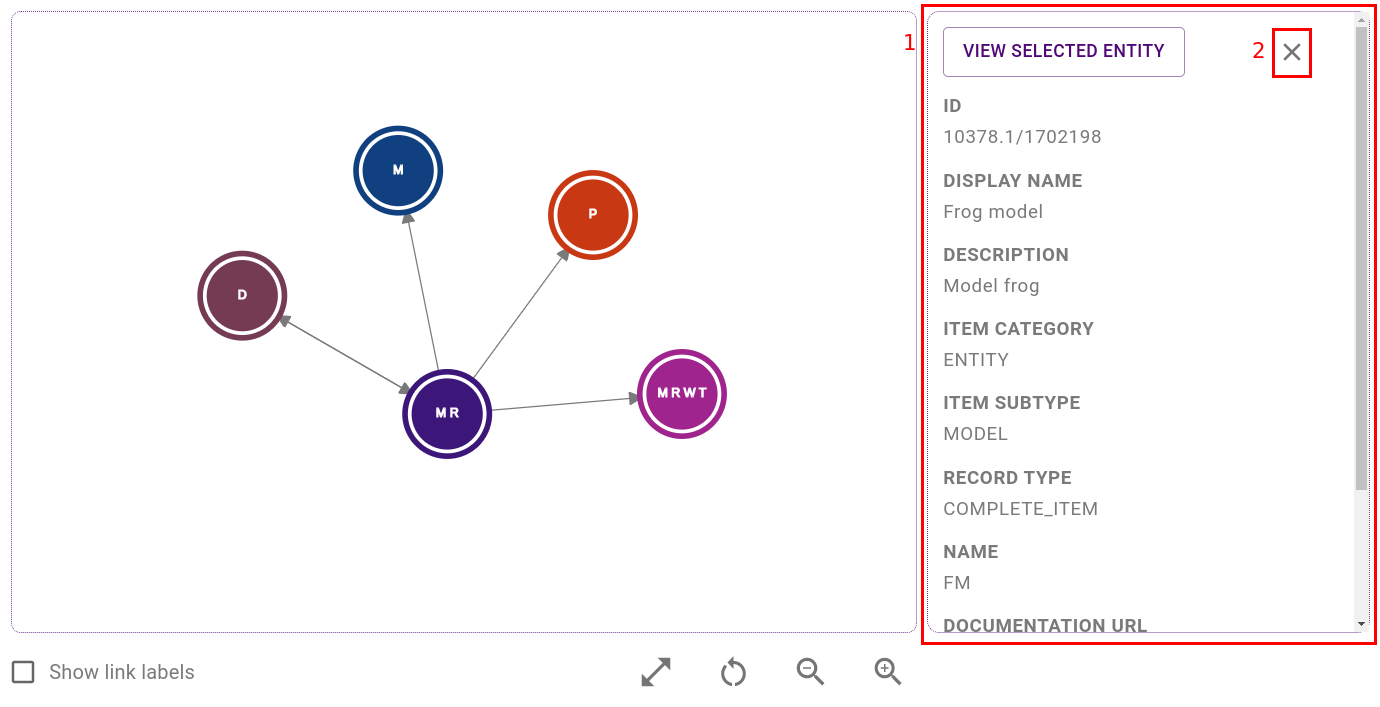
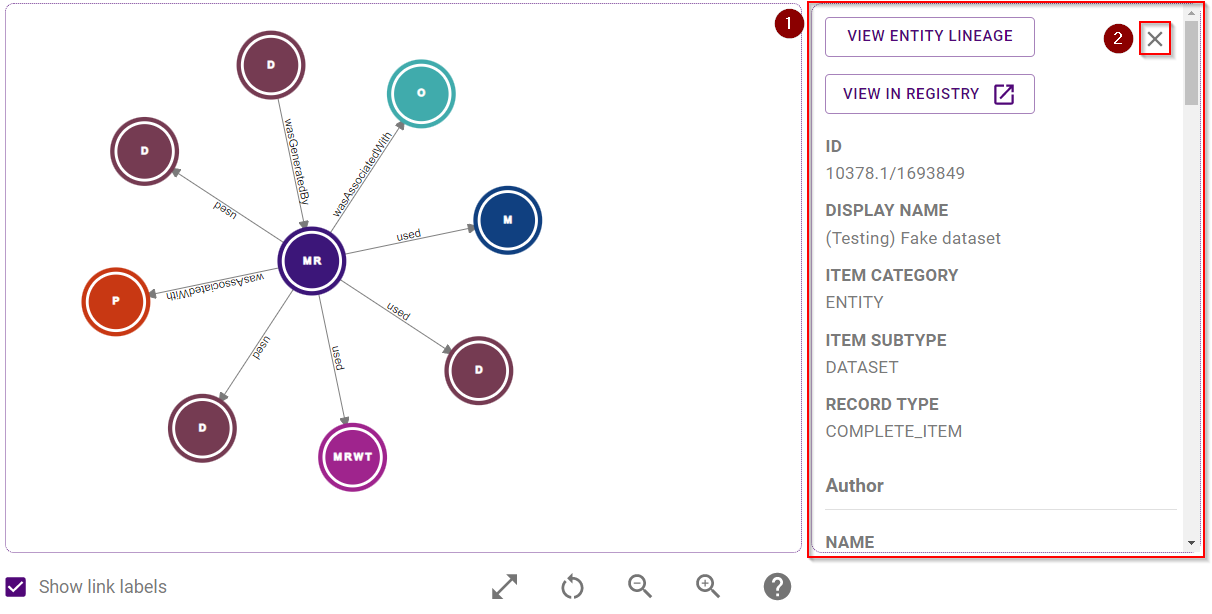
Update screenshots to include help button and add quick mention

diff --git a/information-system/provenance/exploring-provenance/exploring-record-lineage.md b/information-system/provenance/exploring-provenance/exploring-record-lineage.md
@@ -81,6 +81,12 @@ The graph contains nodes (1) and links (2). The meaning of these nodes and links
 | :----------------------------------------------------------------------------------------------------------: |
 | <img src="../../../assets/images/provenance/exploring/graph/overview_bottom.png" alt="drawing" width="800"/> |
 
+You can always come back to this page by using the help button, highlighted below (1).
+
+|                                               Getting Help                                               |
+| :------------------------------------------------------------------------------------------------------: |
+| <img src="../../../assets/images/provenance/exploring/graph/help_button.png" alt="drawing" width="800"/> |
+
 # Interacting with and traversing the provenance graph
 
 The provenance graph explorer is an interactive visualisation with various controls. We will explore these controls in three sections.

diff --git a/information-system/provenance/exploring-provenance/discovering-records.md b/information-system/provenance/exploring-provenance/discovering-records.md
@@ -32,7 +32,7 @@ There are two methods to discover explorable records:
 
 ### Finding model run records
 
-[Registered model run records](../registering-model-runs/index) records are good candidates for provenance exploration as they are complex collections of connected entities. They may form a good starting point if you would to explore provenance.
+[Registered model run records](../registering-model-runs/index) records are good candidates for provenance exploration as they are complex collections of connected entities. They may form a good starting point if you would like to explore provenance.
 
 To discover model run records - visit the [registry](../registry/overview), [explore the records](../registry/exploring_the_registry), [filtering](../registry/exploring_the_registry#listing-sorting-and-filtering-entities) by "Model Run".
 
